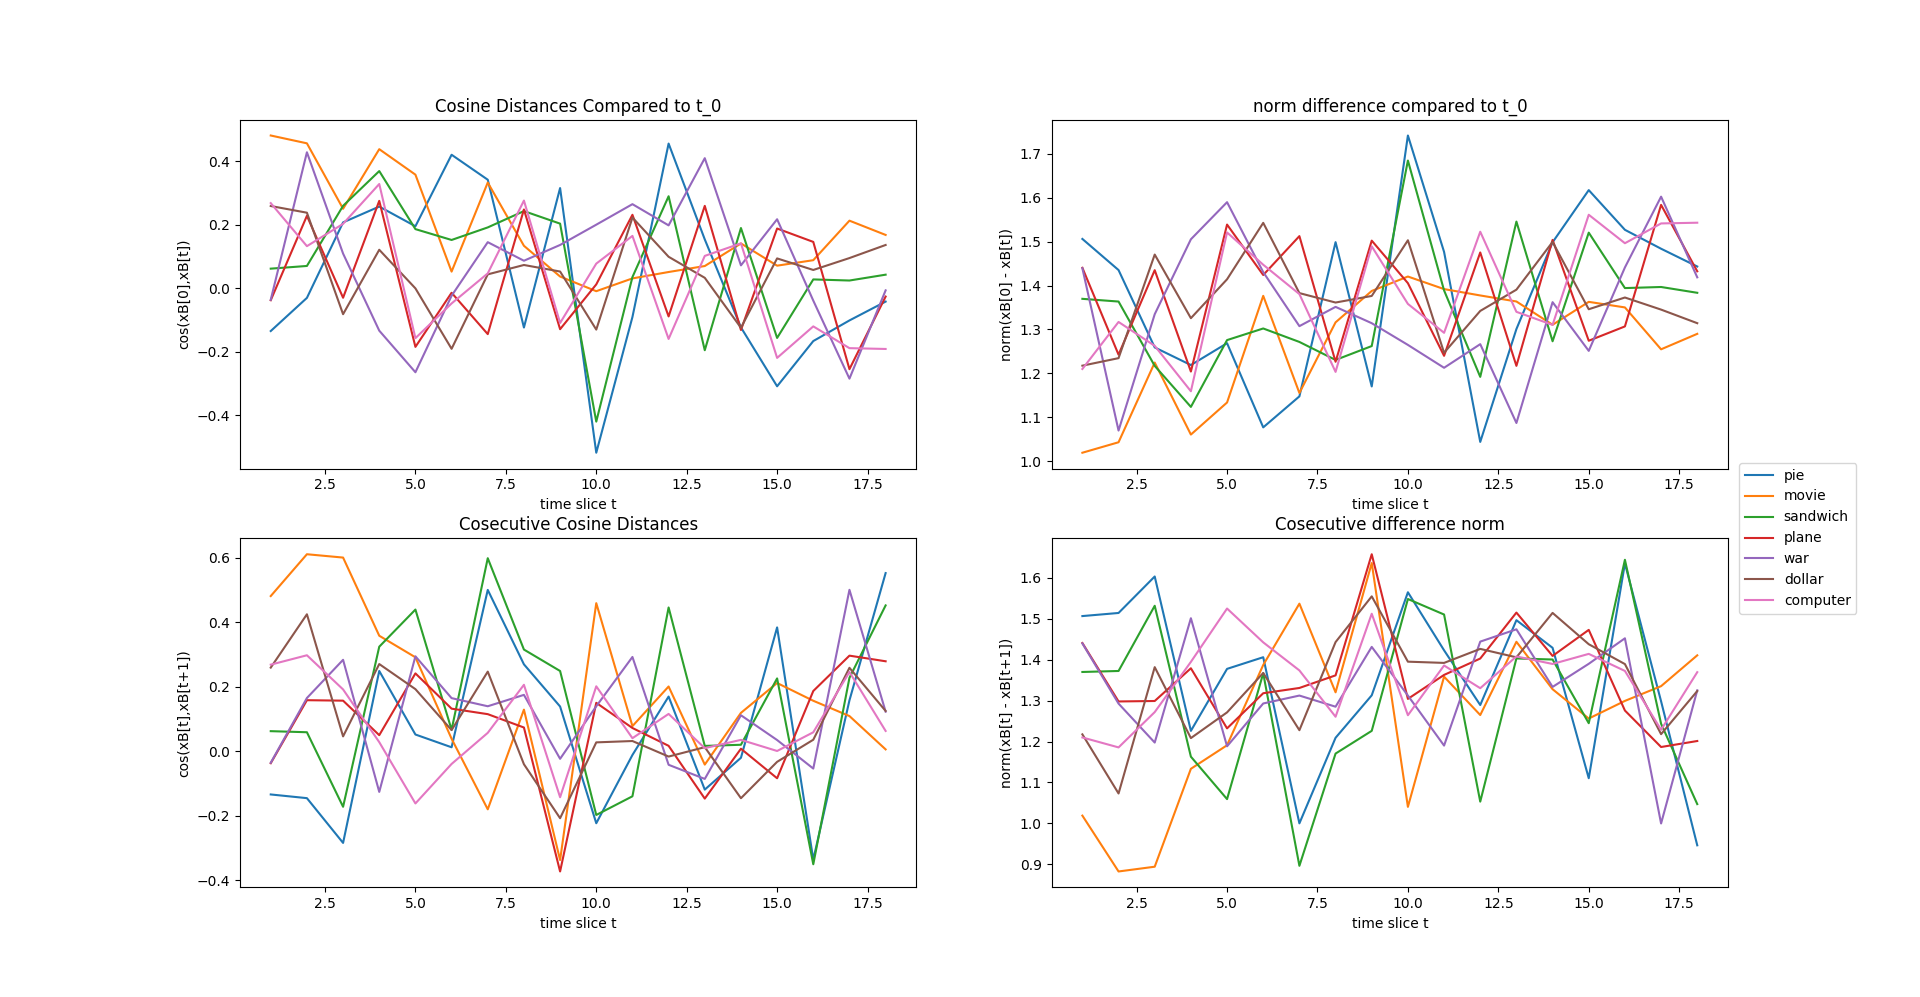
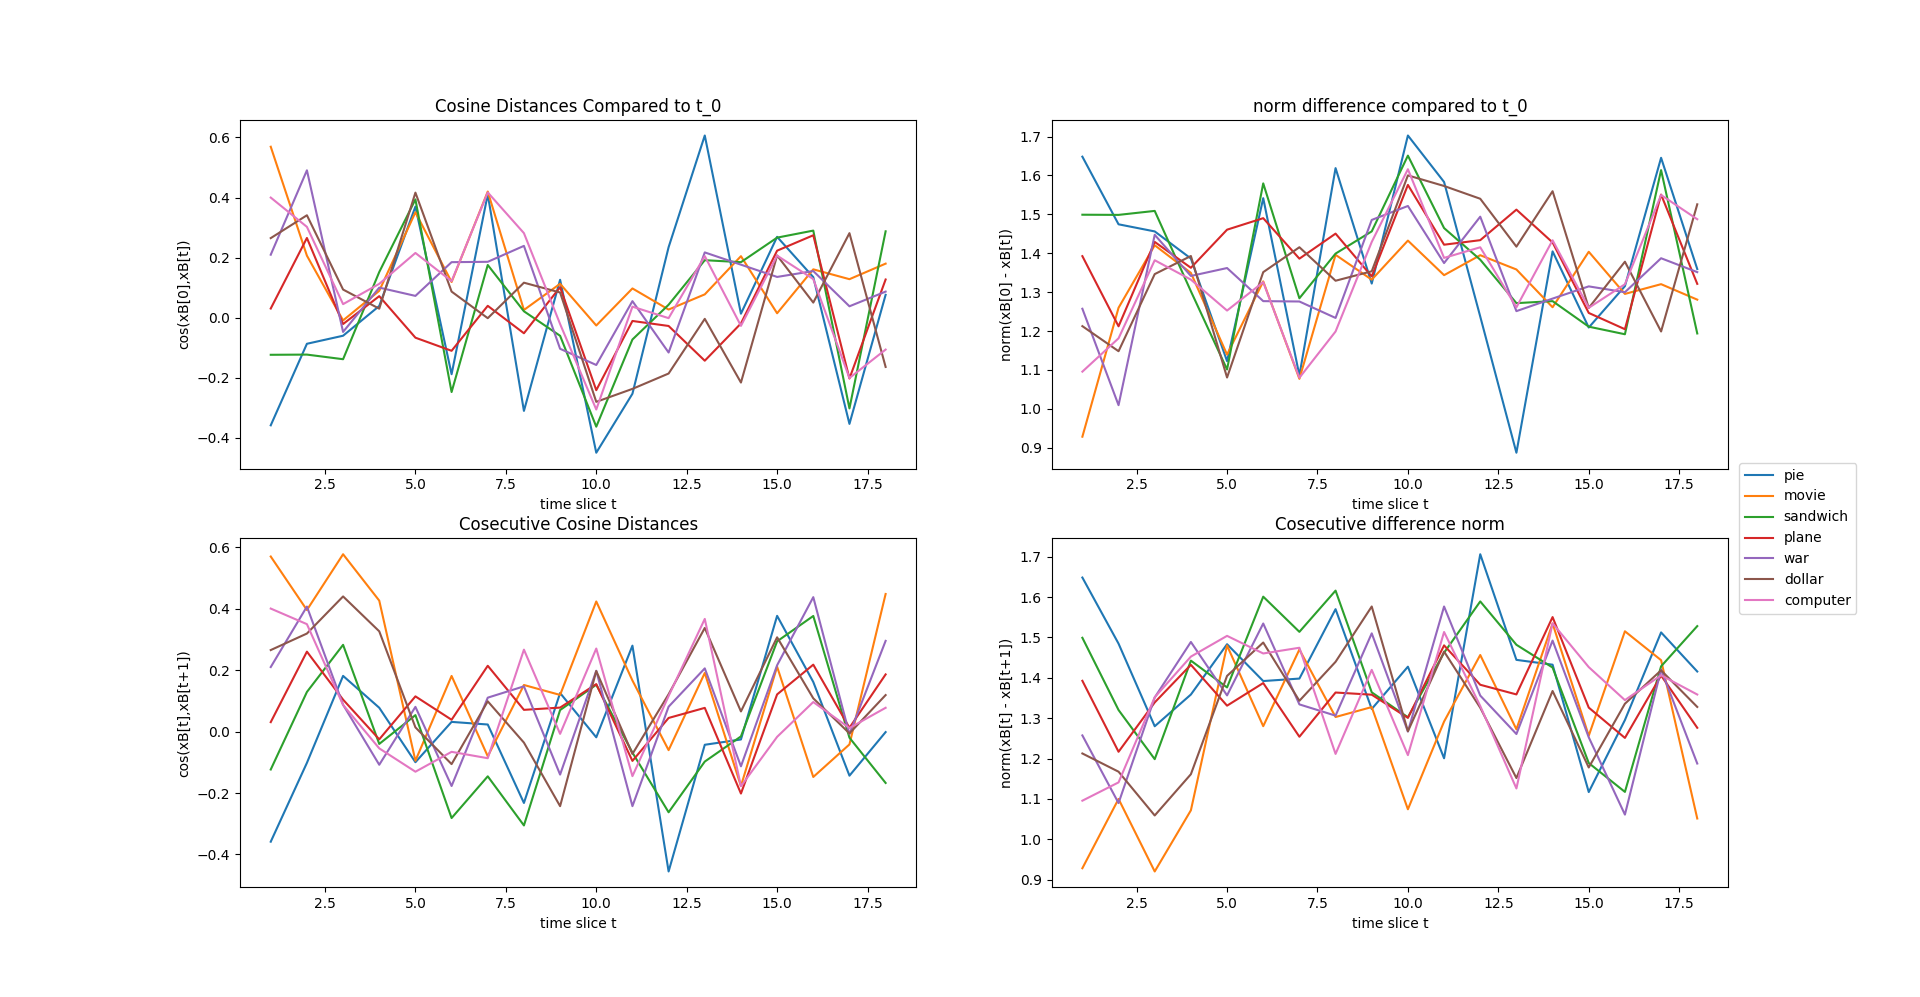
added in Fsvd2 option to test word embedding + pushed up additional figures

diff --git a/process_data.py b/process_data.py
@@ -36,11 +36,10 @@ UPDATE_FREQUENCY_CONSTANT = 10.0
 
 #run by global filelocation or argument if passed in
 def main():
-  form_core_tensor_from_svd(range(1990,2009),'mean_center')
-  '''
+#  test_word_embedding()
   #words = ['amazon','apple','disney','obama','clinton','america','pixar',
-  # 'gore']
-  words =['pie','movie','sandwich','plane','war','dollar','computer']
+# 'gore']
+  words =['obama']
 
   #load in the U and B for the test
   U = np.load(os.path.join(DATA_FILE_PATH,
@@ -52,9 +51,10 @@ def main():
                          'wordIDs/wordPairPMI_1990_to_2016wordIDs.pickle'),
                          'r') as handle:
     wordIDs = pickle.load(handle)
+  word_trajectories('obama',U,B,wordIDs,30)
   plot_word_changes(words, U, B, wordIDs)
-  #plot_core_tensor_eigenvalues(B,use_singular=True)
-  '''
+ # plot_core_tensor_eigenvalues(B,use_singular=False)
+
 
 '''----------------------------------------------------------------------------- 
     plot_core_tensor_eigenvalues(core_tensor)
@@ -641,7 +641,7 @@ def word_trajectories(word, embedding,core_tensor,wordIDs,k):
     #sqrt_B = np.dot(vecs, np.diag(sqrt_val))
 
     t_embedding = np.dot(embedding,core_tensor[t])
-    normalize(t_embedding)
+#    normalize(t_embedding)
 
     #add in t_th word embedding in t_th slice to embedding list
     word_embeddings.append((word +'_'+str(t),t_embedding[wordIDs[word],:]))
@@ -984,7 +984,12 @@ def form_core_tensor_from_svd(years,version):
   core_tensor = np.ndarray((len(years), U.shape[1], U.shape[1]))
   for t,year in enumerate(years):
     #load in each svd and form the core tensor
-    file_name = "svd_ful/full_wordPairPMI_" + str(year) + "__mean_center_U.npy"
+    if version == 'mean_center':
+      file_name = "svd_ful/full_wordPairPMI_" + str(year) + \
+                  "__mean_center_U.npy"
+    else:
+      file_name = "svd_ful/full_wordPairPMI_" + str(year) + \
+                  "_U.npy"
     U_t = np.load(file_name)
     core_tensor[t] = np.dot(U.t, U_t)
 
@@ -1200,7 +1205,7 @@ def test_word_embedding():
   get_type = True
   while get_type:
     type = raw_input("Which embedding do you want to load?:\n"
-                     +"tSNE,svdU, tfU, Fsvd\n")
+                     +"tSNE,svdU, tfU, Fsvd, Fsvd2\n")
     if type == "tSNE":
       subfolder = "/tSNE/"
       postfix = "svdU_TSNE."
@@ -1213,7 +1218,7 @@ def test_word_embedding():
       subfolder = "tf_embedding/"
       postfix = ".+tfU."
       get_type = False
-    elif type == "Fsvd":
+    elif type == "Fsvd" or type == "Fsvd2":
       subfolder = "flattened_svd/"
       postfix = ".+FSVD_U."
       get_type = False
@@ -1281,11 +1286,19 @@ def test_word_embedding():
     B_file = list(file)
     B_file[-5] = 'B'
     core_tensor = np.load(subfolder + "".join(B_file))
+  elif type == "Fsvd2":
+    B_file = list(file)
+    B_file[-5] = 'B'
+    B_file.insert(-6,'2')
+    print B_file
+    print subfolder + "".join(B_file)
+    core_tensor = np.load(subfolder + "".join(B_file))
+
 
   n = embedding.shape[0]
 
   #need to load in multiple ID_dictionaries if loading tf_embeddings
-  if type == "tfU" or type == "Fsvd":
+  if type == "tfU" or type == "Fsvd" or type == "Fsvd2":
     if type == "tfU":
       #find years associated with embedding
       start_year = file[12:16]
@@ -1299,11 +1312,13 @@ def test_word_embedding():
       print IDs_file,files
       with open("wordIDs/" + IDs_file[0], 'rb') as handle:
         indices = pickle.load(handle)
+      indices = {value: key for key, value in indices.iteritems()}
     else:
+      start_year = file[:4]
+      end_year = file[8:12]
       with open("wordIDs/wordPairPMI_1990_to_2016wordIDs.pickle", 'rb') as handle:
         indices = pickle.load(handle)
 
-    indices = {value: key for key, value in indices.iteritems()}
 
     load_new_year = True
     while load_new_year:
@@ -1315,10 +1330,9 @@ def test_word_embedding():
       else:
         #form embedding
         core_tensor_index = int(year) - int(start_year)
-        if type == "Fsvd":
+        if type == "Fsvd" or type == "Fsvd2":
 #         semi_def_B = w2v.make_semi_definite(core_tensor[core_tensor_index])
-          semi_def_B = core_tensor[core_tensor_index]
-          vals, vecs = np.linalg.eig(semi_def_B)
+          vals, vecs = np.linalg.eig(core_tensor[core_tensor_index])
           #cut off round off error
 #         vals = np.array(map(lambda x: 0 if abs(x) < 1e-10 else x, vals))
           sqrt_val = map(lambda x: sqrt(x),vals)
